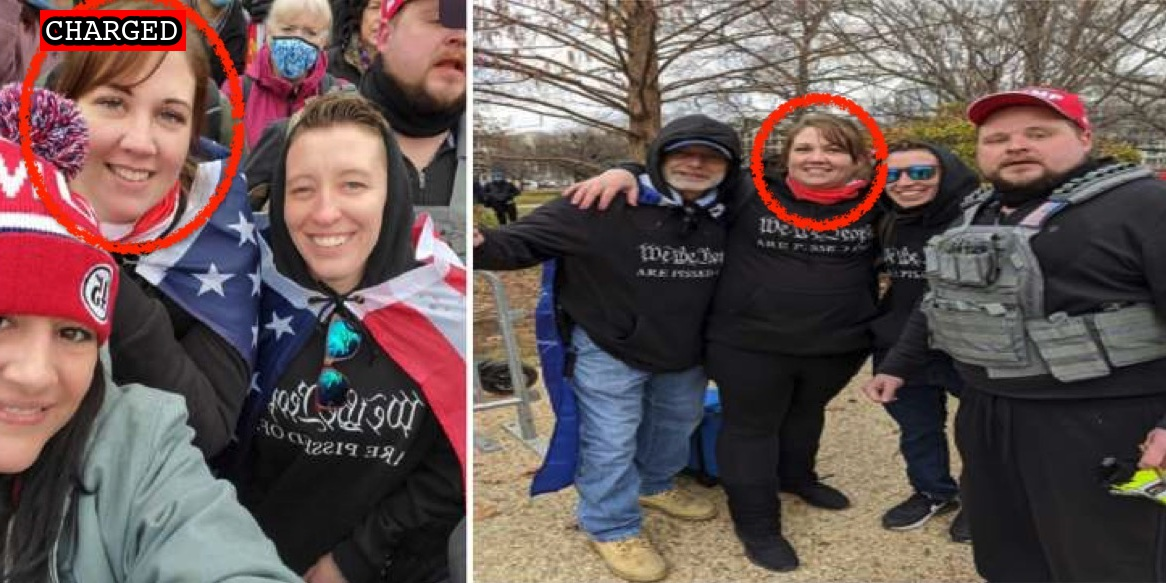
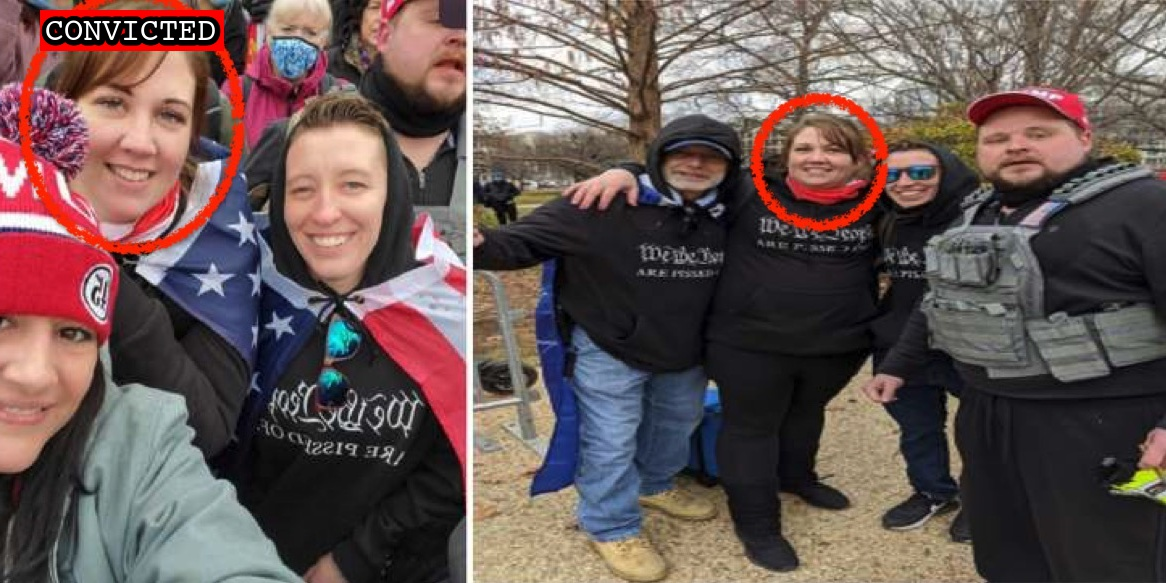
Latest import

Changed region(s): [[0.0309, 0.0, 0.2161, 0.0926]]

diff --git a/docs/_suspects/stefanie-chiguer.md b/docs/_suspects/stefanie-chiguer.md
@@ -4,16 +4,16 @@ lastName: Chiguer
 hashtag:
 aka:
 residence: Massachusetts
-status: Charged
+status: Convicted
 date: 2022-01-14
 charged: 2022-01-14
 indicted:
-convicted:
+convicted: 2022-04-07
 acquitted:
 sentenced:
 dismissed:
 deceased:
-plea_hearing:
+plea_hearing: 2022-04-07
 trial_date:
 sentencing:
 age: 36
@@ -36,8 +36,13 @@ published: true
 caseNumber: 1:22-mj-000
 videos:
 charges:
+- code: 18 USC § 5104(e)(2)(G)
+  title: Parading, demonstrating or picketing in a Capitol building
+  url: https://www.law.cornell.edu/uscode/text/40/5104
+  felony: false
 sentence:
 ---
 - [News Report](https://www.boston.com/news/local-news/2022/01/18/capitol-riot-two-new-england-women-charged/)
-- [Statement of Facts](https://www.justice.gov/usao-dc/case-multi-defendant/file/1481436/download)
+- [Statement of Facts](https://www.justice.gov/usao-dc/case-multi-defendant/file/1493461/download)
 - [Information](https://extremism.gwu.edu/sites/g/files/zaxdzs2191/f/Kirstyn%20Niemela%20and%20Stefanie%20Nicole%20Chiguer%20Information.pdf)
+- [Plea Agreement](https://www.justice.gov/usao-dc/case-multi-defendant/file/1493456/download)
